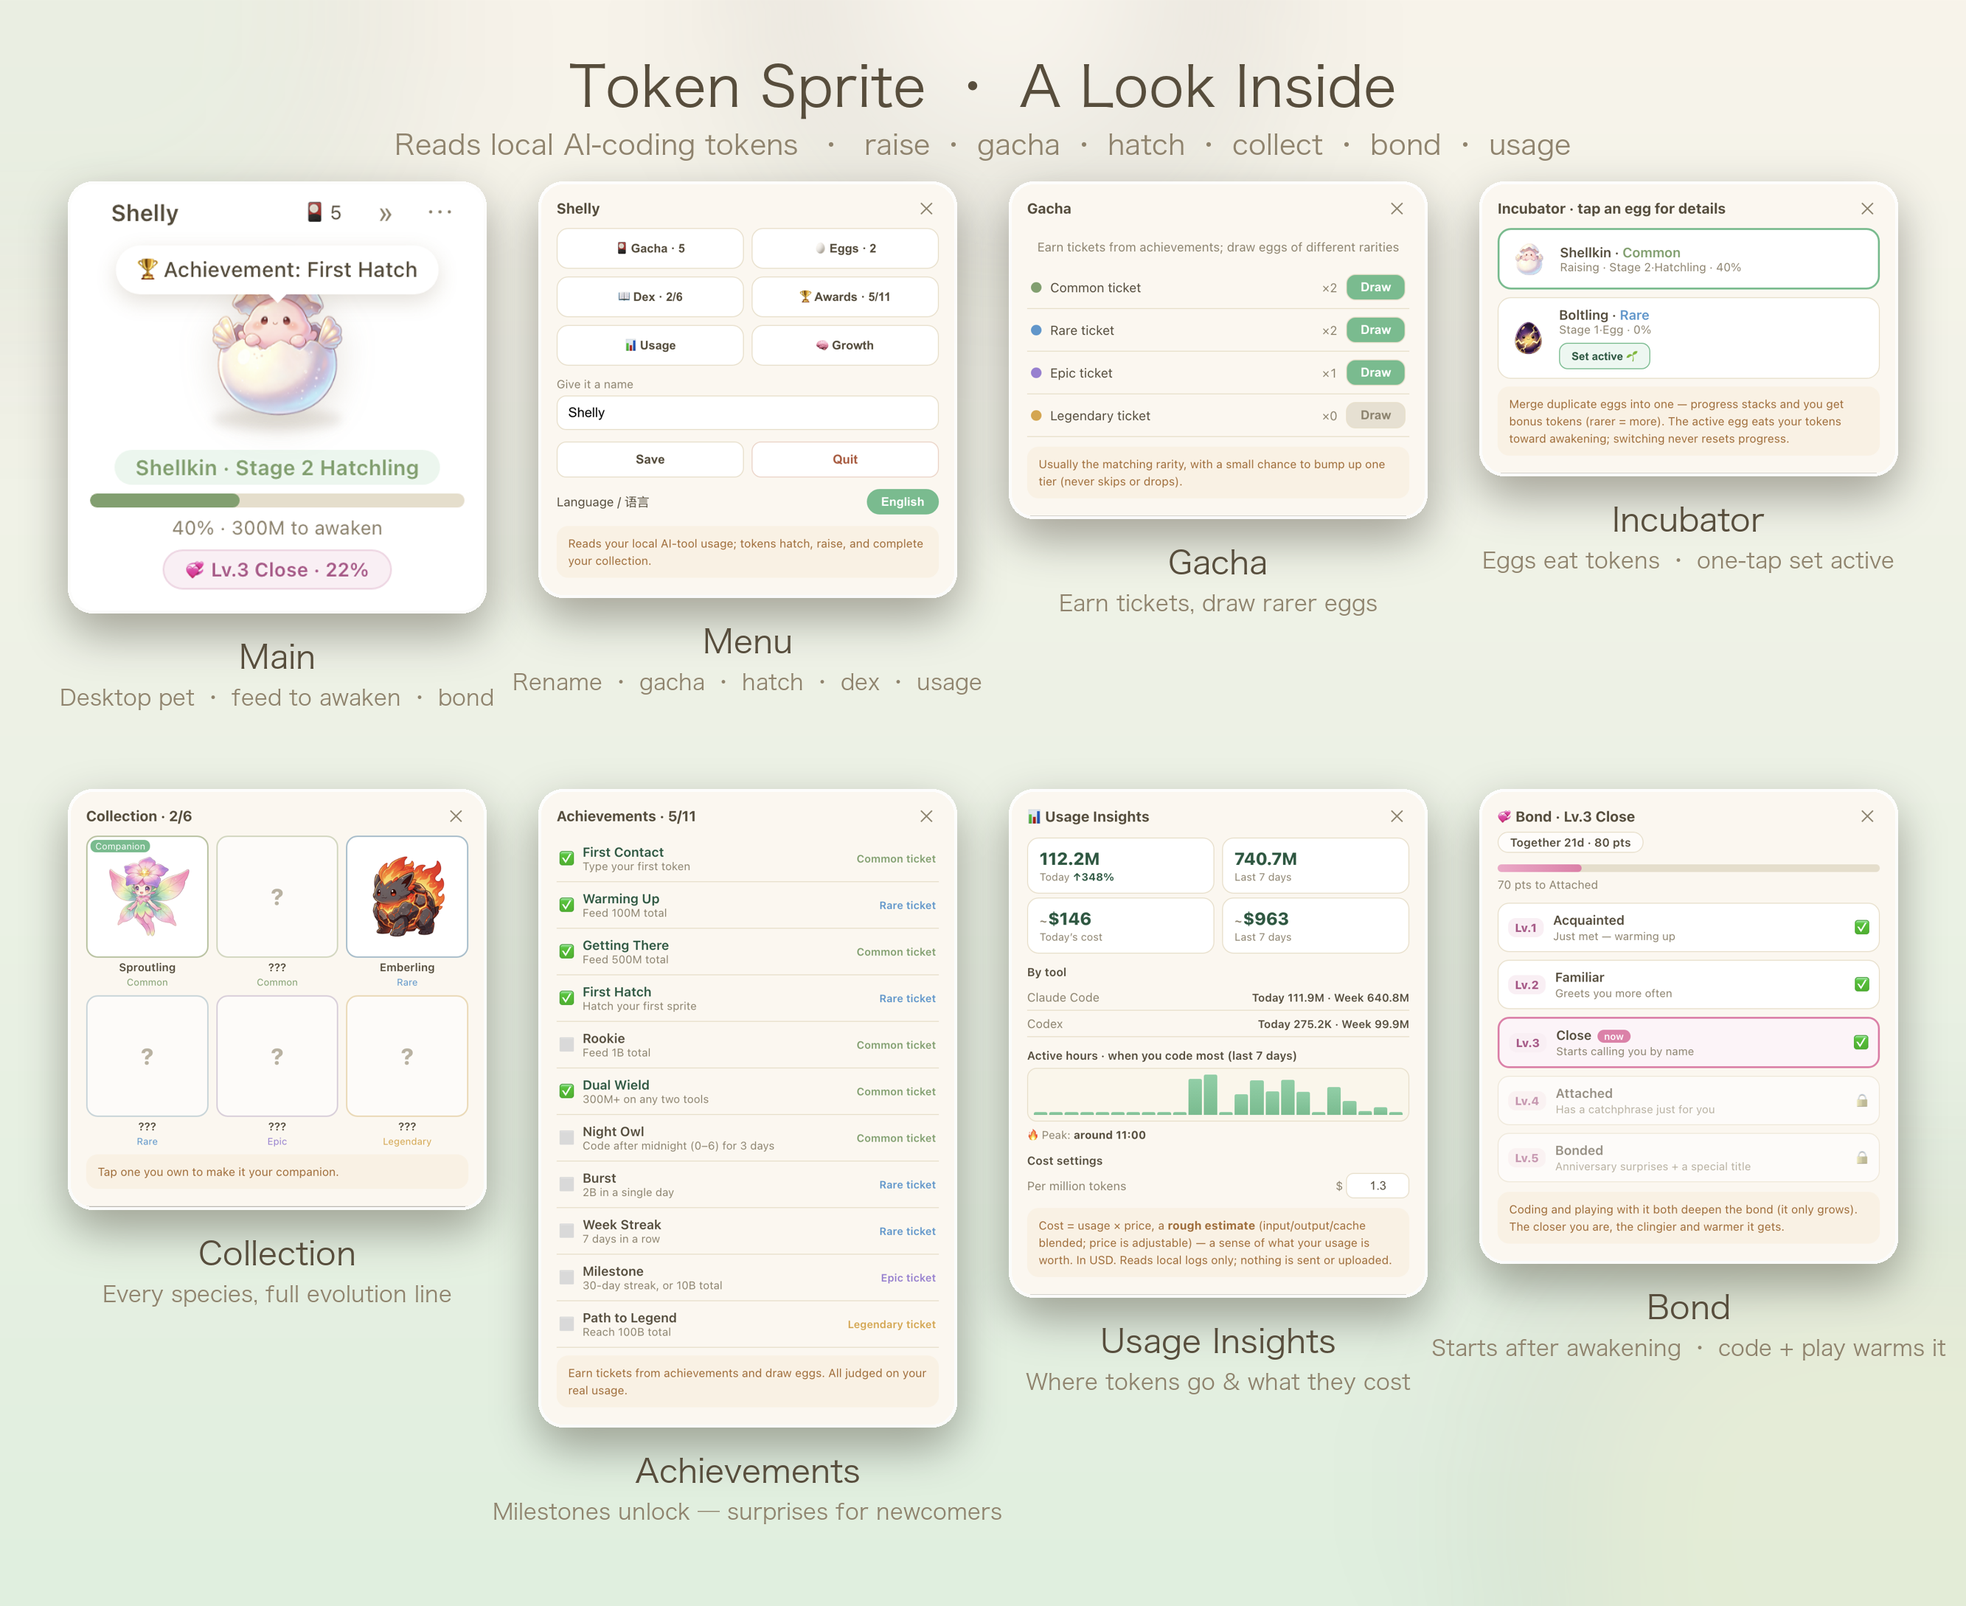
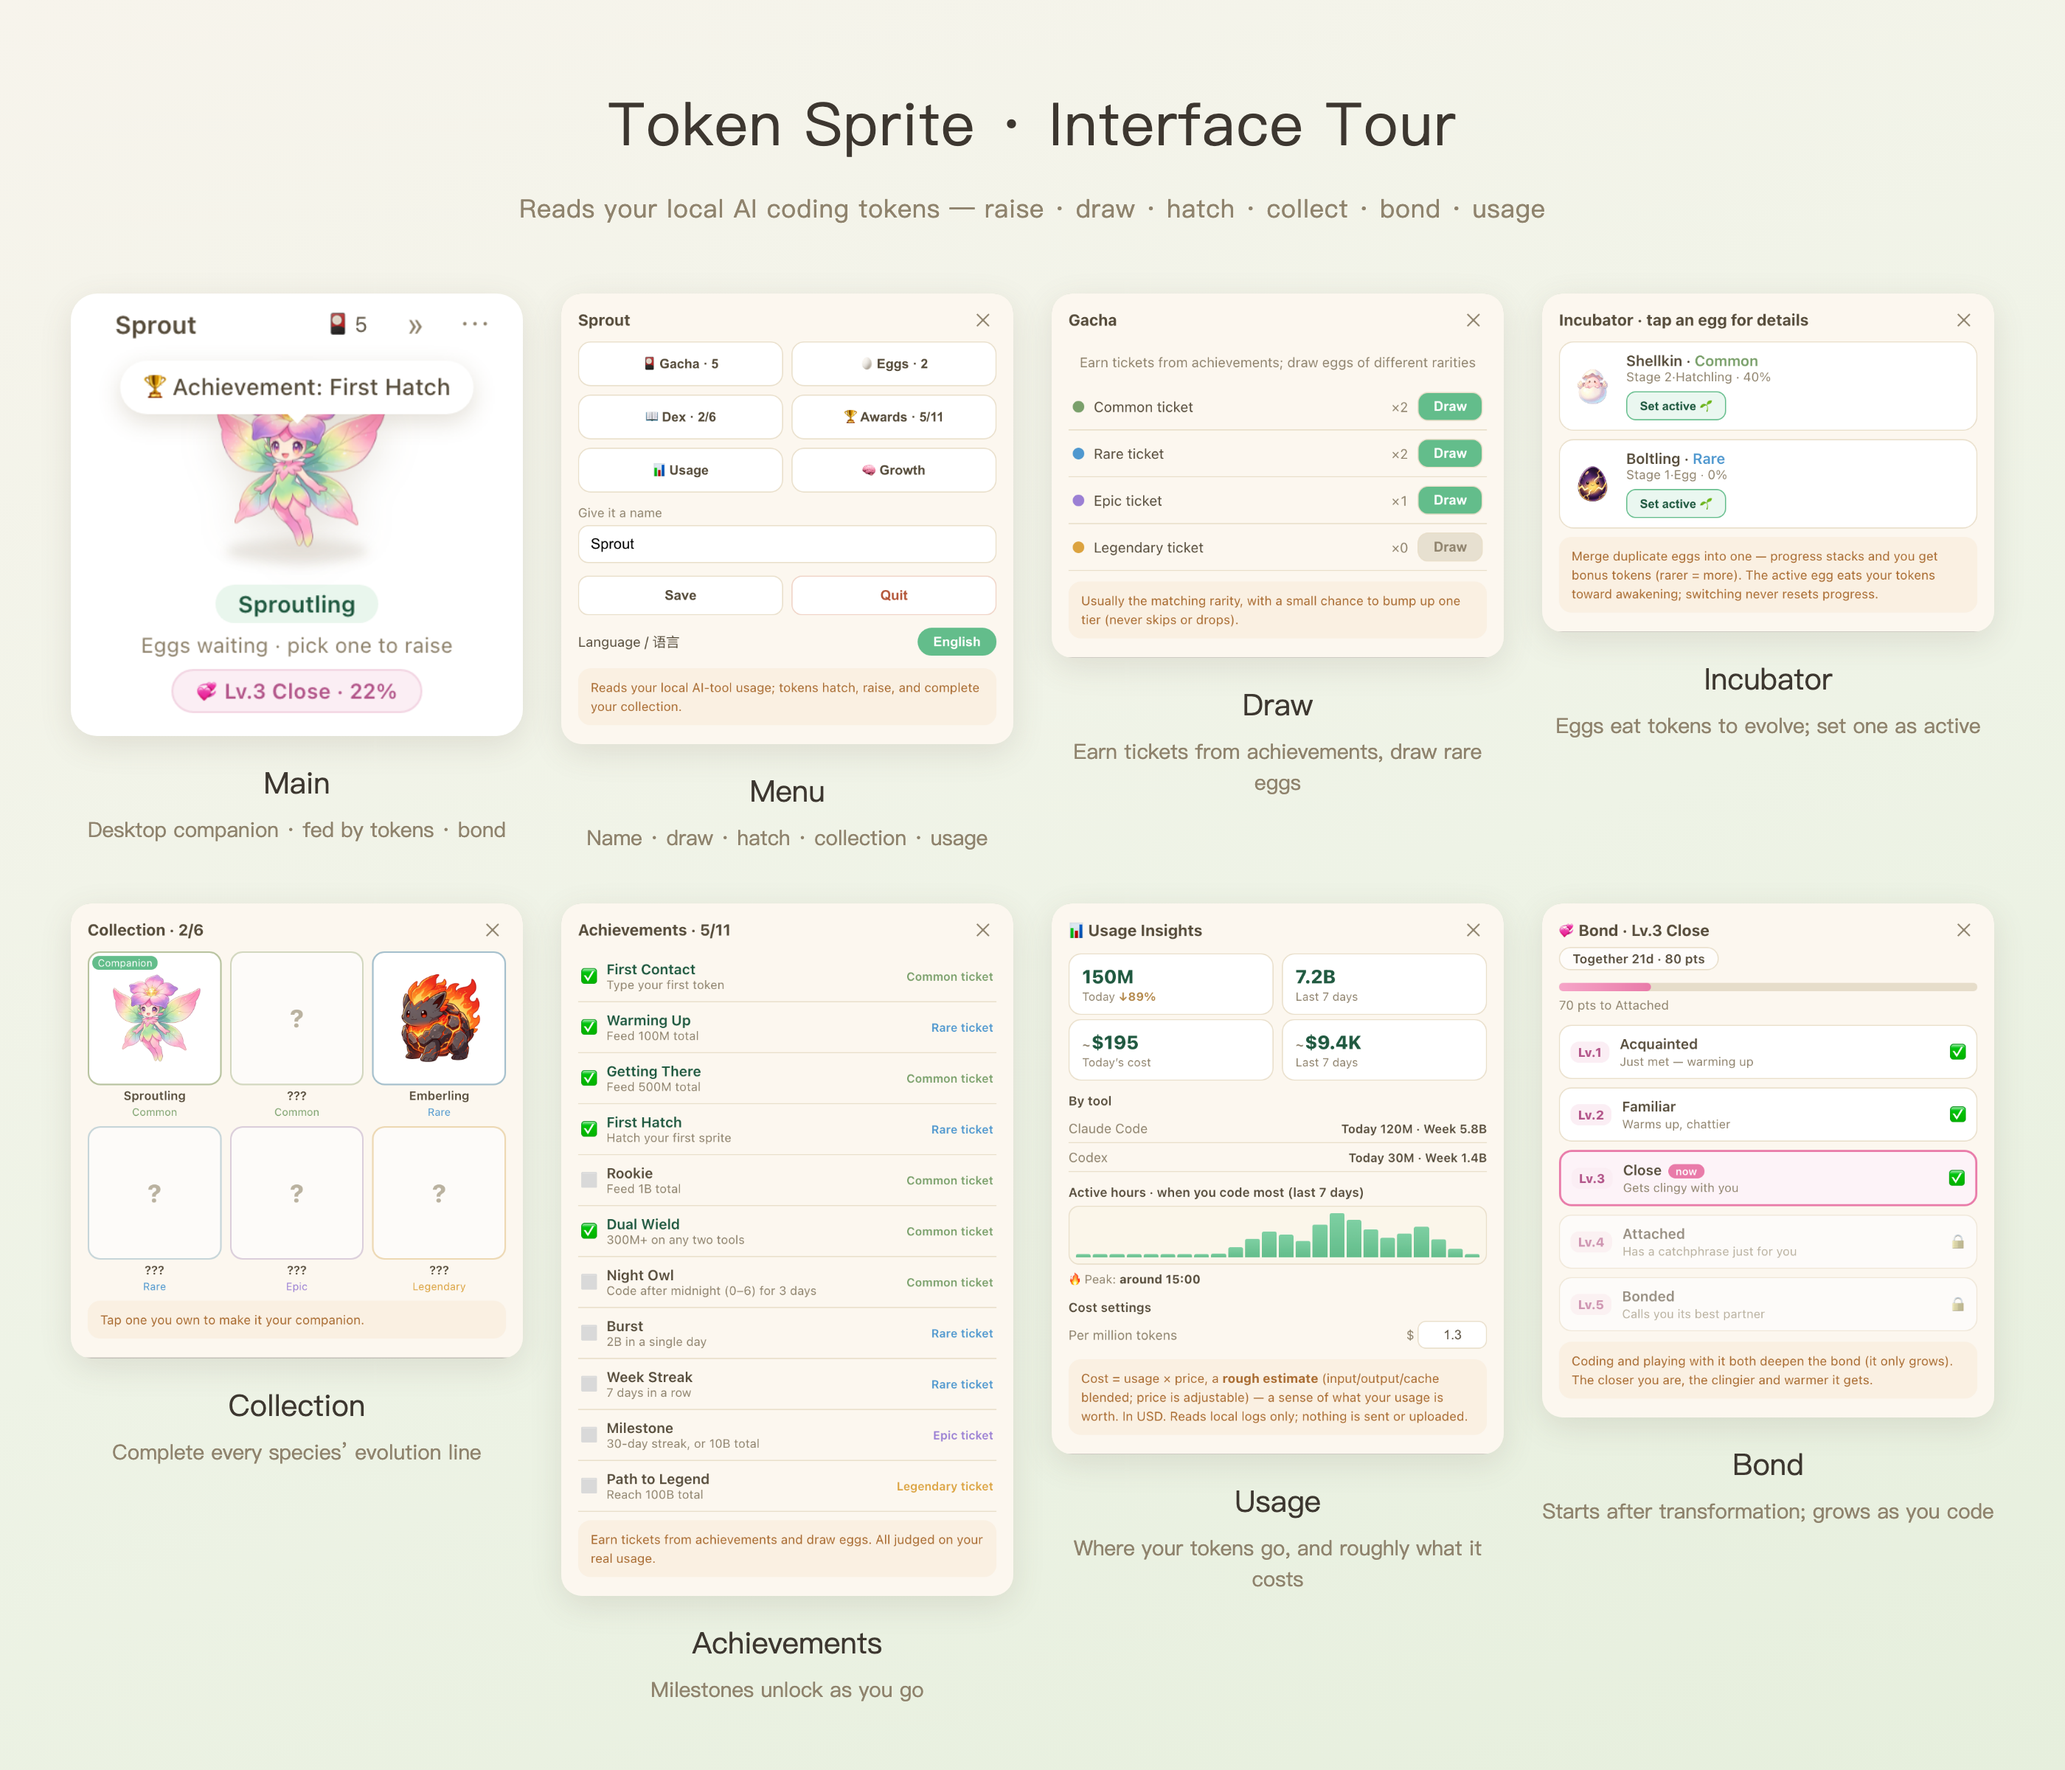
羁绊等级说明改成真实能力，别承诺没做的功能
Lv.2/3/5 原本写着「会更主动跟你打招呼 / 开始用昵称叫你 / 纪念日特别反应 + 专属称号」，
这三个只有文案、没有实现。用户升上来发现没有，比一开始就不写更伤。

实际做了的是：每级有一组专属台词（main.js 的 INTERACT_LINES），越亲台词越黏。
所以改成描述这个：说话热络起来 / 越来越黏你 / 把你当最好的搭子。
Lv.4「有了专属口头禅」保留——那句「宝子，别太累哦」确实是真的。

顺带把「界面一览」图的生成流程固化：以前是手工拼的、没留下来，改一行字得重做整张图。
现在 npm run shots:overview 从真实界面截图到成图一条命令，中英两张一起出。

diff --git a/src/domain/bond.js b/src/domain/bond.js
@@ -18,12 +18,14 @@ function mk(o) {
 }
 
 // 5 段羁绊：达到 min 分即该等级。name/unlock 双语，调用点仍用 .name / .unlock。
+// unlock 只描述真实存在的变化——每级有一组专属台词（见 main.js 的 INTERACT_LINES），
+// 别在这里承诺还没做的功能（昵称、纪念日等），用户升上来发现没有会掉好感。
 export const BOND_LEVELS = [
   mk({ level: 1, min: 0, _name: T('初识', 'Acquainted'), _unlock: T('刚认识，慢慢熟悉中', 'Just met — warming up') }),
-  mk({ level: 2, min: 20, _name: T('熟络', 'Familiar'), _unlock: T('会更主动跟你打招呼', 'Greets you more often') }),
-  mk({ level: 3, min: 60, _name: T('亲近', 'Close'), _unlock: T('开始用昵称叫你', 'Starts calling you by name') }),
+  mk({ level: 2, min: 20, _name: T('熟络', 'Familiar'), _unlock: T('说话热络起来', 'Warms up, chattier') }),
+  mk({ level: 3, min: 60, _name: T('亲近', 'Close'), _unlock: T('越来越黏你', 'Gets clingy with you') }),
   mk({ level: 4, min: 150, _name: T('依赖', 'Attached'), _unlock: T('有了专属口头禅', 'Has a catchphrase just for you') }),
-  mk({ level: 5, min: 300, _name: T('羁绊', 'Bonded'), _unlock: T('纪念日特别反应 + 专属称号', 'Anniversary surprises + a special title') }),
+  mk({ level: 5, min: 300, _name: T('羁绊', 'Bonded'), _unlock: T('把你当最好的搭子', 'Calls you its best partner') }),
 ];
 
 function ensureBond(state) {
